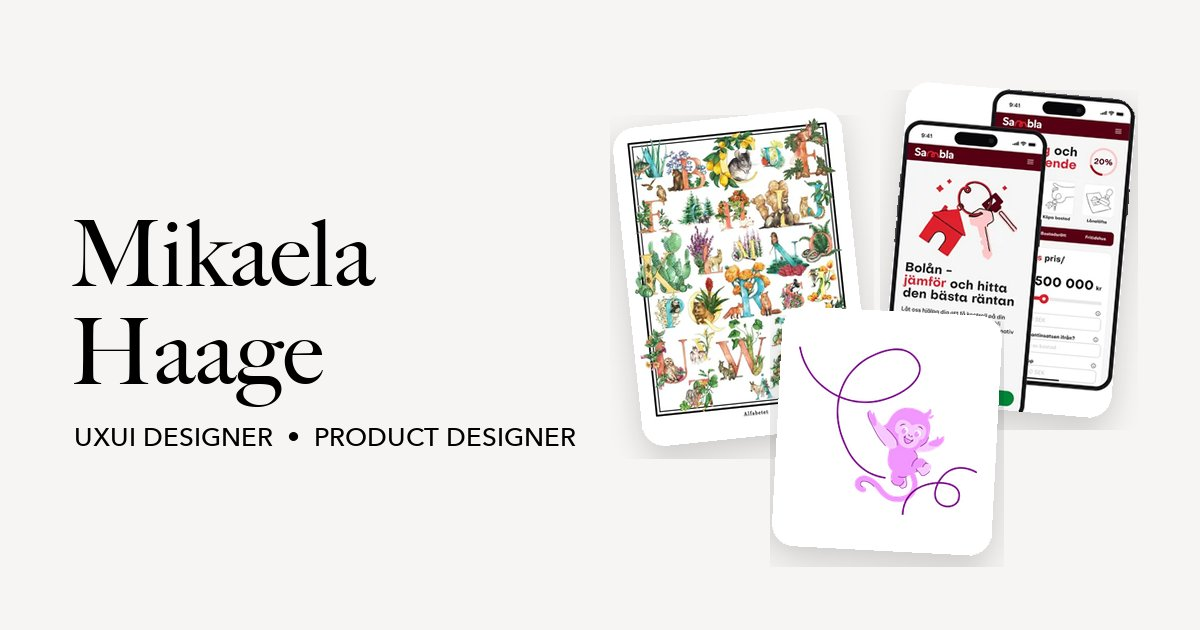
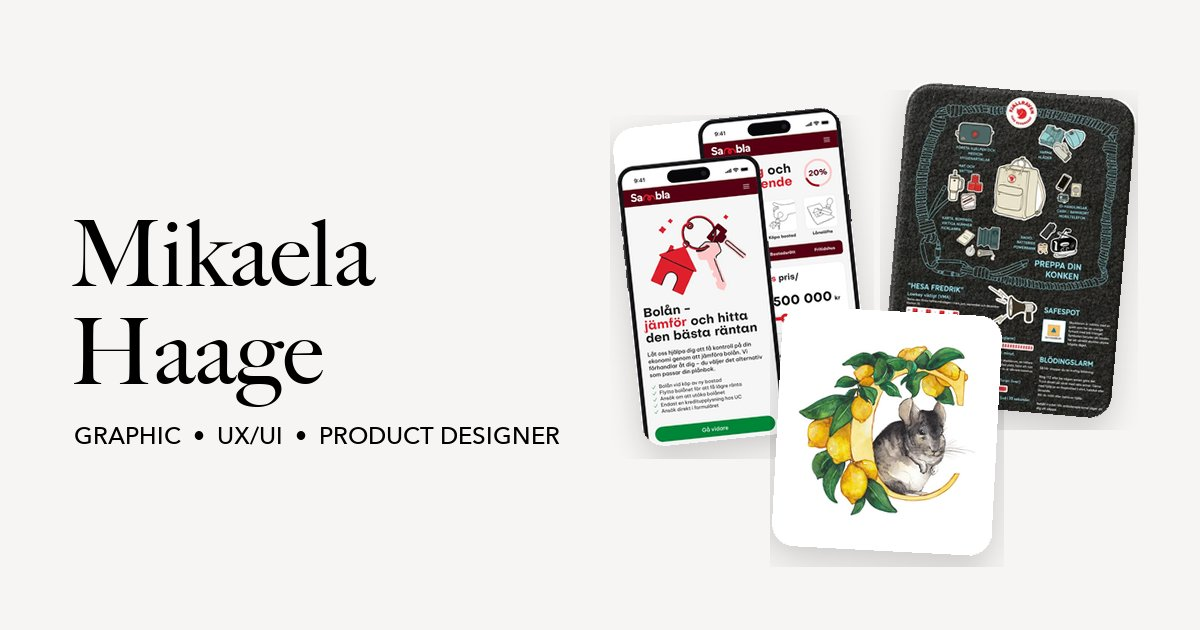
New title in tab and share card; new start page share image

Changed region(s): [[0.4933, 0.1206, 0.9558, 0.8143], [0.0617, 0.6635, 0.4933, 0.7238]]

diff --git a/index.html b/index.html
@@ -3,14 +3,14 @@
 <head>
   <meta charset="utf-8">
   <meta name="viewport" content="width=device-width, initial-scale=1">
-  <title>Mikaela Haage – UXUI Designer &amp; Product Designer</title>
-  <meta name="description" content="Portfolio of Mikaela Haage, UXUI Designer and Product Designer in Stockholm: apps, campaigns and hand-drawn illustration.">
+  <title>Mikaela Haage – Graphic, UX/UI &amp; Product Designer</title>
+  <meta name="description" content="Portfolio of Mikaela Haage, Graphic, UX/UI and Product Designer in Stockholm: apps, campaigns and hand-drawn illustration.">
   <link rel="canonical" href="https://mikaelahaage.se/">
   <!-- How the page looks when the link is shared. -->
   <meta property="og:type" content="website">
   <meta property="og:site_name" content="Mikaela Haage">
-  <meta property="og:title" content="Mikaela Haage – UXUI Designer &amp; Product Designer">
-  <meta property="og:description" content="Portfolio of Mikaela Haage, UXUI Designer and Product Designer in Stockholm: apps, campaigns and hand-drawn illustration.">
+  <meta property="og:title" content="Mikaela Haage – Graphic, UX/UI &amp; Product Designer">
+  <meta property="og:description" content="Portfolio of Mikaela Haage, Graphic, UX/UI and Product Designer in Stockholm: apps, campaigns and hand-drawn illustration.">
   <meta property="og:url" content="https://mikaelahaage.se/">
   <meta property="og:image" content="https://mikaelahaage.se/img/share/home.jpg">
   <meta property="og:image:width" content="1200">

diff --git a/about.html b/about.html
@@ -4,13 +4,13 @@
   <meta charset="utf-8">
   <meta name="viewport" content="width=device-width, initial-scale=1">
   <title>About – Mikaela Haage</title>
-  <meta name="description" content="About Mikaela Haage, UXUI Designer, Product Designer and illustrator in Stockholm.">
+  <meta name="description" content="About Mikaela Haage, Graphic, UX/UI and Product Designer and illustrator in Stockholm.">
   <link rel="canonical" href="https://mikaelahaage.se/about">
   <!-- How the page looks when the link is shared. -->
   <meta property="og:type" content="website">
   <meta property="og:site_name" content="Mikaela Haage">
   <meta property="og:title" content="About – Mikaela Haage">
-  <meta property="og:description" content="About Mikaela Haage, UXUI Designer, Product Designer and illustrator in Stockholm.">
+  <meta property="og:description" content="About Mikaela Haage, Graphic, UX/UI and Product Designer and illustrator in Stockholm.">
   <meta property="og:url" content="https://mikaelahaage.se/about">
   <meta property="og:image" content="https://mikaelahaage.se/img/share/about.jpg">
   <meta property="og:image:width" content="1200">
